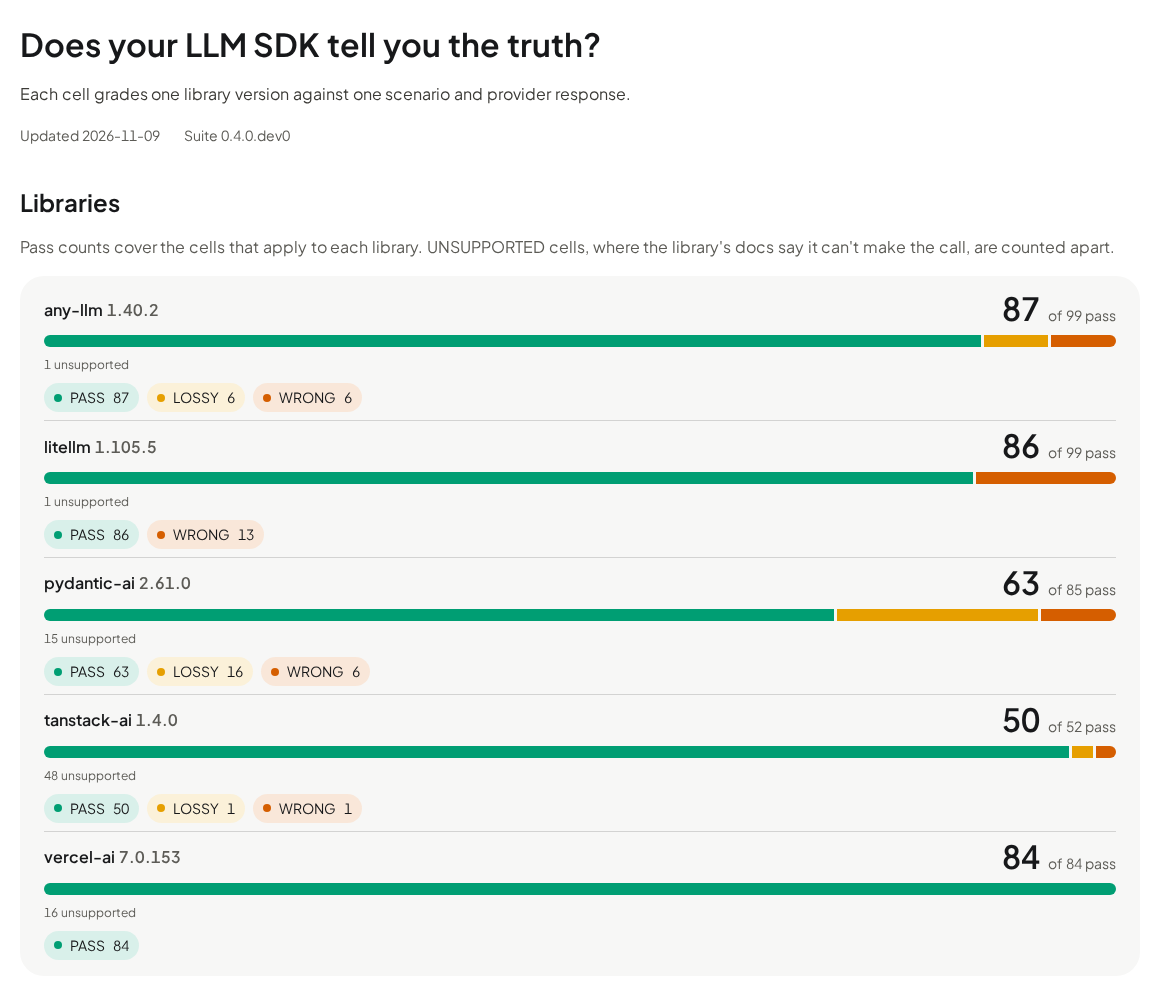
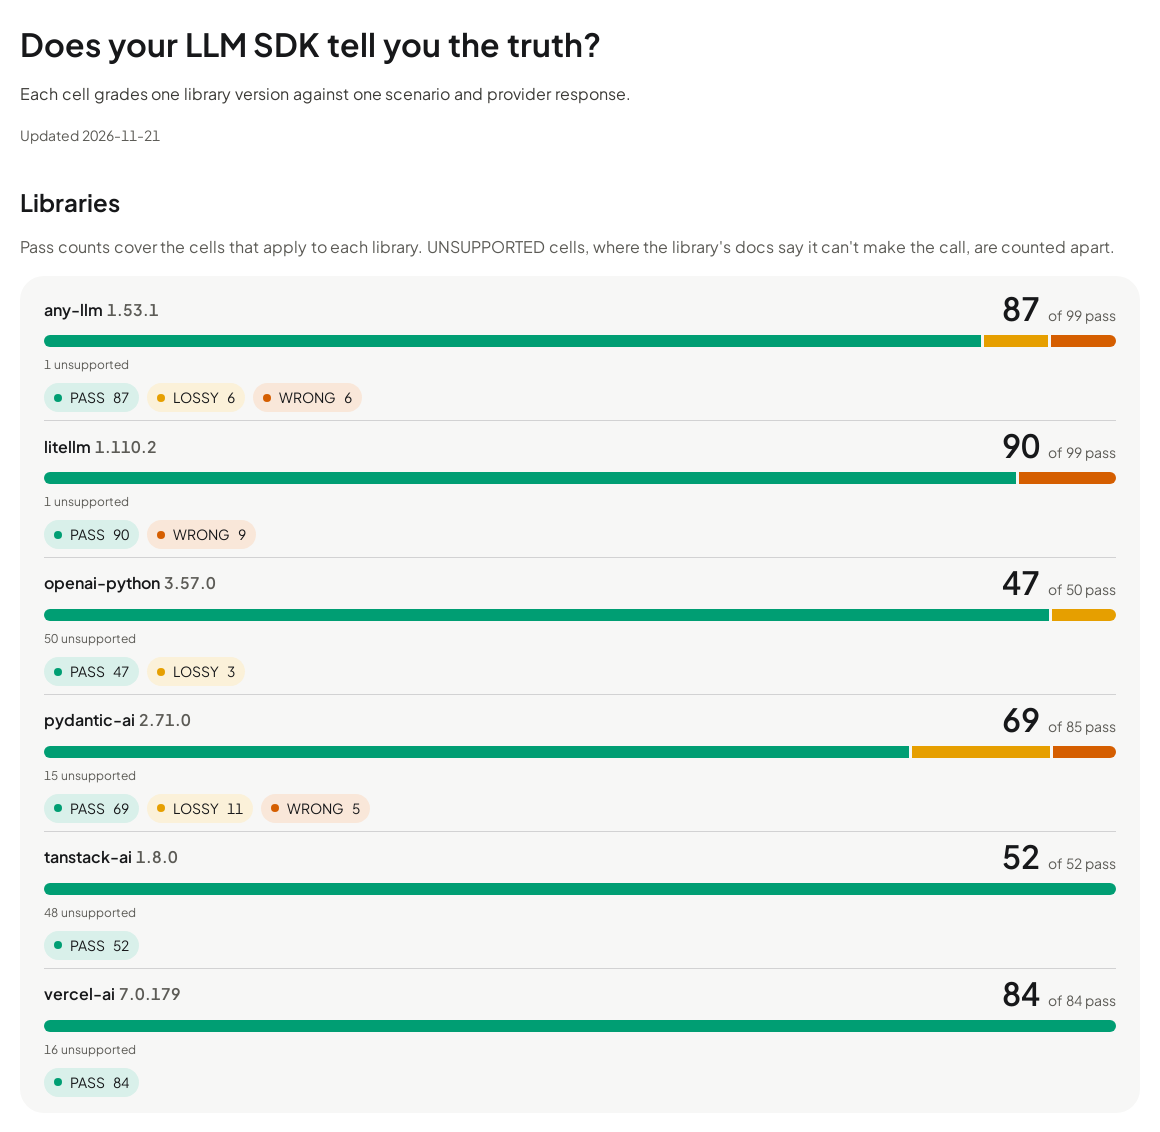
docs: grade changes, validation rows and the README screenshot for the 2026-11-21 results
README "Why" rows link the newest results files (no row changed) and name
openai/openai-python#2486, the known bug behind the last two rows.
docs/validation.md gains TanStack #2130 (fixed by #2124) and pydantic-ai #12552
on Ollama #7125. The CHANGELOG explains the TanStack Gemini moves and the shim's
new error mapping. The README screenshot is retaken from this branch.

Changed region(s): [[0.0, 0.0312, 0.9621, 0.9658]]

diff --git a/docs/validation.md b/docs/validation.md
@@ -14,8 +14,10 @@ be later than the first release containing the fix.
 | TanStack AI [#1853](https://github.com/TanStack/ai/issues/1853): truncated tool call loses the length finish and triggers retries; fixed by [#1874](https://github.com/TanStack/ai/pull/1874) | wiretruth | `truncation.tool-call-args-stream`: `openai-chat` | 0.71.0 → WRONG | 1.0.0 → PASS | [before](../results/tanstack-ai/0.71.0.json), [after](../results/tanstack-ai/1.0.0.json) |
 | TanStack AI [#1852](https://github.com/TanStack/ai/issues/1852): native Ollama stream cut by the token limit finishes as `stop`; fixed by [#2077](https://github.com/TanStack/ai/pull/2077) in `@tanstack/ai-ollama` 1.1.1 | wiretruth | `truncation.text-stream`: `ollama` | 1.0.0 → WRONG | 1.4.0 → PASS | [before](../results/tanstack-ai/1.0.0.json), [after](../results/tanstack-ai/1.4.0.json) |
 | LiteLLM [#46542](https://github.com/BerriAI/litellm/issues/46542): a stream that ends without a finish reason is reported as `stop`; fixed by [#47665](https://github.com/BerriAI/litellm/pull/47665), which doesn't link the issue (the link is inferred from the changed behaviour; the issue stays open for `gemini`) | wiretruth | `stream.missing-finish`: `anthropic`, `ollama`, `ollama-openai`, `openai-chat` | 1.105.5 → WRONG | 1.109.0 → PASS | [before](../results/litellm/1.105.5.json), [after](../results/litellm/1.109.0.json) |
+| TanStack AI [#2130](https://github.com/TanStack/ai/issues/2130): Gemini stream without a finish reason has no terminal event; fixed by [#2124](https://github.com/TanStack/ai/pull/2124) in `@tanstack/ai-gemini` 1.2.3, which doesn't link the issue | wiretruth | `stream.missing-finish`: `gemini` | 1.4.0 → LOSSY | 1.8.0 → PASS | [before](../results/tanstack-ai/1.4.0.json), [after](../results/tanstack-ai/1.8.0.json) |
 | pydantic-ai [#7816](https://github.com/pydantic/pydantic-ai/issues/7816): unfamiliar finish values rejected; fixed by [#11119](https://github.com/pydantic/pydantic-ai/pull/11119) | reported by others, confirmed by wiretruth | `finish.unknown-value`: `openai-chat`, `ollama-openai` | 2.56.0 → WRONG | 2.61.0 → LOSSY | [before](../results/pydantic-ai/2.56.0.json), [after](../results/pydantic-ai/2.61.0.json) |
 | pydantic-ai [#12399](https://github.com/pydantic/pydantic-ai/issues/12399): truncated structured output fails after retries with a generic error; fixed by [#12407](https://github.com/pydantic/pydantic-ai/pull/12407) | reported by others, confirmed by wiretruth | `truncation.structured-output`: `anthropic`, `gemini`, `ollama-openai`, `openai-chat`, `openai-responses` | 2.61.0 → LOSSY | 2.68.0 → PASS | [before](../results/pydantic-ai/2.61.0.json), [after](../results/pydantic-ai/2.68.0.json) |
+| pydantic-ai on Ollama [#7125](https://github.com/ollama/ollama/issues/7125): Ollama's OpenAI-compatible endpoint ignores `max_completion_tokens`, the only limit field `OllamaModel` sent; fixed in pydantic-ai by [#12552](https://github.com/pydantic/pydantic-ai/pull/12552) in 2.69.0, which sends `max_tokens` | reported by others, confirmed by wiretruth | `request.max-tokens-ollama-openai`: `ollama-openai` | 2.68.0 → WRONG | 2.71.0 → PASS | [before](../results/pydantic-ai/2.68.0.json), [after](../results/pydantic-ai/2.71.0.json) |
 
 pydantic-ai keeps the response and the original value in `provider_details`, but exposes no finish reason.
 That is LOSSY, not PASS. wiretruth's later report was closed as a duplicate of #7816.
@@ -46,6 +48,8 @@ Replaying fixtures recorded on today's models is fine: the wire shape is what ma
   (`gpt-6-luna`, recorded 2026-10-11). This is the only cell whose grade changed between these TanStack results.
 - **TanStack #1852:** `ollama` [truncation.text-stream](../suite/fixtures/ollama/truncation.text-stream.json)
   (`qwen3.5:0.8b`, recorded 2026-10-12).
+- **TanStack #2130:** `gemini` [stream.missing-finish](../suite/fixtures/gemini/stream.missing-finish.json)
+  (`gemini-3.5-flash-lite`, derived).
 - **LiteLLM #46542:** [stream.missing-finish](../suite/fixtures/openai-chat/stream.missing-finish.json) over
   `openai-chat` (`gpt-6-luna`, derived), [anthropic](../suite/fixtures/anthropic/stream.missing-finish.json)
   (`claude-sonnet-5-5`, derived from documented), and [ollama](../suite/fixtures/ollama/stream.missing-finish.json)
@@ -57,13 +61,20 @@ Replaying fixtures recorded on today's models is fine: the wire shape is what ma
   2026-10-11), [ollama-openai](../suite/fixtures/ollama-openai/truncation.structured-output.json) (`qwen3.5:0.8b`,
   recorded 2026-10-12), [gemini](../suite/fixtures/gemini/truncation.structured-output.json)
   (`gemini-3.5-flash-lite`, recorded 2026-10-13) and [anthropic](../suite/fixtures/anthropic/truncation.structured-output.json)
-  (`claude-sonnet-5-5`, documented). The forced-tool and tool-call truncation cells stay LOSSY in 2.68.0.
+  (`claude-sonnet-5-5`, documented). The forced-tool and tool-call truncation cells stay LOSSY in 2.71.0.
+- **pydantic-ai on Ollama #7125:** `ollama-openai`
+  [request.max-tokens-ollama-openai](../suite/fixtures/ollama-openai/request.max-tokens-ollama-openai.json)
+  (`qwen3.5:0.8b`, recorded 2026-10-12). The check reads the request, so the cell passes on the field pydantic-ai
+  sends; Ollama itself still ignores `max_completion_tokens` (its fix, #18604, is open).
 
 The other consecutive result comparisons add no fixed-bug rows: LiteLLM 1.105.1 → 1.105.5 and any-llm
 1.38.0 → 1.40.2 have unchanged grades. The Vercel comparisons change only the cells listed above.
 TanStack 1.0.0 → 1.4.0 also moves `stream.missing-finish` over `anthropic` LOSSY → PASS
 ([#2042](https://github.com/TanStack/ai/pull/2042), `@tanstack/ai-anthropic` 1.1.1); wiretruth graded that gap but
-filed no issue for it, so it has no row above.
+filed no issue for it, so it has no row above. TanStack 1.4.0 → 1.8.0 also moves `stream.error-midstream` over
+`gemini` WRONG → PASS: `@google/genai` 2.30.0 still drops the error event
+([googleapis/js-genai#2087](https://github.com/googleapis/js-genai/issues/2087), open), and #2124 reports the
+stream that ends after it as an error. The upstream bug isn't fixed, so it has no row above.
 
 ## Not checked yet
 

diff --git a/CHANGELOG.md b/CHANGELOG.md
@@ -28,29 +28,34 @@ finding).
 - CONTRIBUTING covers disputing a grade, adding a library and adding a scenario, and lists every CI check.
 - SECURITY.md: a security-relevant finding in a tested library keeps its results off `main` until a fix ships or
   90 days pass.
+- The pydantic-ai shim maps `ModelRequestRejectedError` (pydantic-ai 2.69.0 and later refuse some calls before
+  sending them) to the `validation` error category, so a refused call is graded like any other validation error.
 
 ### Results
-- pydantic-ai 2.71.0: 69 PASS, 11 LOSSY, 5 WRONG and 15 UNSUPPORTED of 100 cells
-  ([results/pydantic-ai/2.71.0.json](results/pydantic-ai/2.71.0.json)). Grade changes from 2.68.0:
-  `request.max-tokens-ollama-openai` over `ollama-openai` WRONG → PASS
-  ([upstream](https://github.com/ollama/ollama/issues/7125)).
 - any-llm 1.53.1: 87 PASS, 6 LOSSY, 6 WRONG and 1 UNSUPPORTED of 100 cells
   ([results/any-llm/1.53.1.json](results/any-llm/1.53.1.json)). No grade changes from 1.51.0.
 - litellm 1.110.2: 90 PASS, 9 WRONG and 1 UNSUPPORTED of 100 cells
   ([results/litellm/1.110.2.json](results/litellm/1.110.2.json)). No grade changes from 1.109.1.
 - openai-python 3.57.0: 47 PASS, 3 LOSSY and 50 UNSUPPORTED of 100 cells
   ([results/openai-python/3.57.0.json](results/openai-python/3.57.0.json)). No grade changes from 3.52.0.
+- pydantic-ai 2.71.0: 69 PASS, 11 LOSSY, 5 WRONG and 15 UNSUPPORTED of 100 cells
+  ([results/pydantic-ai/2.71.0.json](results/pydantic-ai/2.71.0.json)). Grade changes from 2.68.0:
+  `request.max-tokens-ollama-openai` over `ollama-openai` WRONG → PASS: since
+  [#12552](https://github.com/pydantic/pydantic-ai/pull/12552) (2.69.0) pydantic-ai sends Ollama's limit as
+  `max_tokens`, which Ollama reads ([upstream](https://github.com/ollama/ollama/issues/7125)).
 - tanstack-ai 1.8.0: 52 PASS and 48 UNSUPPORTED of 100 cells
   ([results/tanstack-ai/1.8.0.json](results/tanstack-ai/1.8.0.json)). Grade changes from 1.4.0:
-  `stream.error-midstream` over `gemini` WRONG → PASS
-  ([upstream](https://github.com/googleapis/js-genai/issues/2087)); `stream.missing-finish` over `gemini` LOSSY →
-  PASS ([upstream](https://github.com/TanStack/ai/issues/2130)).
+  `stream.missing-finish` over `gemini` LOSSY → PASS ([upstream](https://github.com/TanStack/ai/issues/2130), fixed
+  by [#2124](https://github.com/TanStack/ai/pull/2124) in `@tanstack/ai-gemini` 1.2.3), and `stream.error-midstream`
+  over `gemini` WRONG → PASS through the same end-of-stream error: `@google/genai` 2.30.0 still drops the provider's
+  error event ([upstream](https://github.com/googleapis/js-genai/issues/2087)).
 - vercel-ai 7.0.179: 84 PASS and 16 UNSUPPORTED of 100 cells
   ([results/vercel-ai/7.0.179.json](results/vercel-ai/7.0.179.json)). No grade changes from 7.0.173.
 - OpenAI Python SDK 3.52.0: 47 PASS, 3 LOSSY and 50 UNSUPPORTED of 100 cells. A Chat Completions stream that ends
   without its finish chunk ends like a complete one (`stream.missing-finish` on OpenAI Chat and OpenAI-compatible
   Ollama), and `responses.parse()` raises a validation error, without a finish, on a response cut at the token
-  limit (`truncation.structured-output` on Responses).
+  limit (`truncation.structured-output` on Responses,
+  [upstream](https://github.com/openai/openai-python/issues/2486)).
 - any-llm 1.51.0: 87 PASS, 6 LOSSY, 6 WRONG and 1 UNSUPPORTED of 100 cells
   ([results/any-llm/1.51.0.json](results/any-llm/1.51.0.json)). No grade changes from 1.50.0.
 - litellm 1.109.1 with `openai` 3.51.0: 90 PASS, 9 WRONG and 1 UNSUPPORTED of 100 cells

diff --git a/README.md b/README.md
@@ -34,11 +34,15 @@ the same bytes:
 
 | Library | What the caller gets | Grade |
 |---|---|---|
-| [LiteLLM](https://github.com/kartsan03/wiretruth/blob/main/results/litellm/1.109.1.json) | Returns the response with `incomplete_details.reason: "max_output_tokens"`, the cut-off JSON as text and the token usage, and parses none of it. | ✓ PASS |
-| [pydantic-ai](https://github.com/kartsan03/wiretruth/blob/main/results/pydantic-ai/2.68.0.json) | Raises `OutputTokenLimitExceeded`, which names the token limit. The cut-off text and the usage are only in the messages that `capture_run_messages()` keeps. | ✓ PASS |
-| [Vercel AI SDK](https://github.com/kartsan03/wiretruth/blob/main/results/vercel-ai/7.0.173.json) | Raises `NoObjectGeneratedError` with `finishReason: "length"` and the token usage. | ✓ PASS |
-| [any-llm](https://github.com/kartsan03/wiretruth/blob/main/results/any-llm/1.51.0.json) | Raises pydantic's `ValidationError` ("Invalid JSON: EOF while parsing a string"), with no finish reason and no usage. | ~ LOSSY |
-| [OpenAI Python SDK](https://github.com/kartsan03/wiretruth/blob/main/results/openai-python/3.52.0.json) | `responses.parse()` raises pydantic's `ValidationError` ("Invalid JSON: EOF while parsing a string"), with no finish reason and no usage. | ~ LOSSY |
+| [LiteLLM](https://github.com/kartsan03/wiretruth/blob/main/results/litellm/1.110.2.json) | Returns the response with `incomplete_details.reason: "max_output_tokens"`, the cut-off JSON as text and the token usage, and parses none of it. | ✓ PASS |
+| [pydantic-ai](https://github.com/kartsan03/wiretruth/blob/main/results/pydantic-ai/2.71.0.json) | Raises `OutputTokenLimitExceeded`, which names the token limit. The cut-off text and the usage are only in the messages that `capture_run_messages()` keeps. | ✓ PASS |
+| [Vercel AI SDK](https://github.com/kartsan03/wiretruth/blob/main/results/vercel-ai/7.0.179.json) | Raises `NoObjectGeneratedError` with `finishReason: "length"` and the token usage. | ✓ PASS |
+| [any-llm](https://github.com/kartsan03/wiretruth/blob/main/results/any-llm/1.53.1.json) | Raises pydantic's `ValidationError` ("Invalid JSON: EOF while parsing a string"), with no finish reason and no usage. | ~ LOSSY |
+| [OpenAI Python SDK](https://github.com/kartsan03/wiretruth/blob/main/results/openai-python/3.57.0.json) | `responses.parse()` raises pydantic's `ValidationError` ("Invalid JSON: EOF while parsing a string"), with no finish reason and no usage. | ~ LOSSY |
+
+The last two rows are one known bug: any-llm calls the OpenAI SDK's `responses.parse()`, which parses the text
+without checking the response status ([openai/openai-python#2486](https://github.com/openai/openai-python/issues/2486),
+open upstream).
 
 The table is a snapshot: each library name links to the results file its row comes from, and the
 [scenario page](https://kartsan03.github.io/wiretruth/scenarios/truncation.structured-output.html) shows the current
